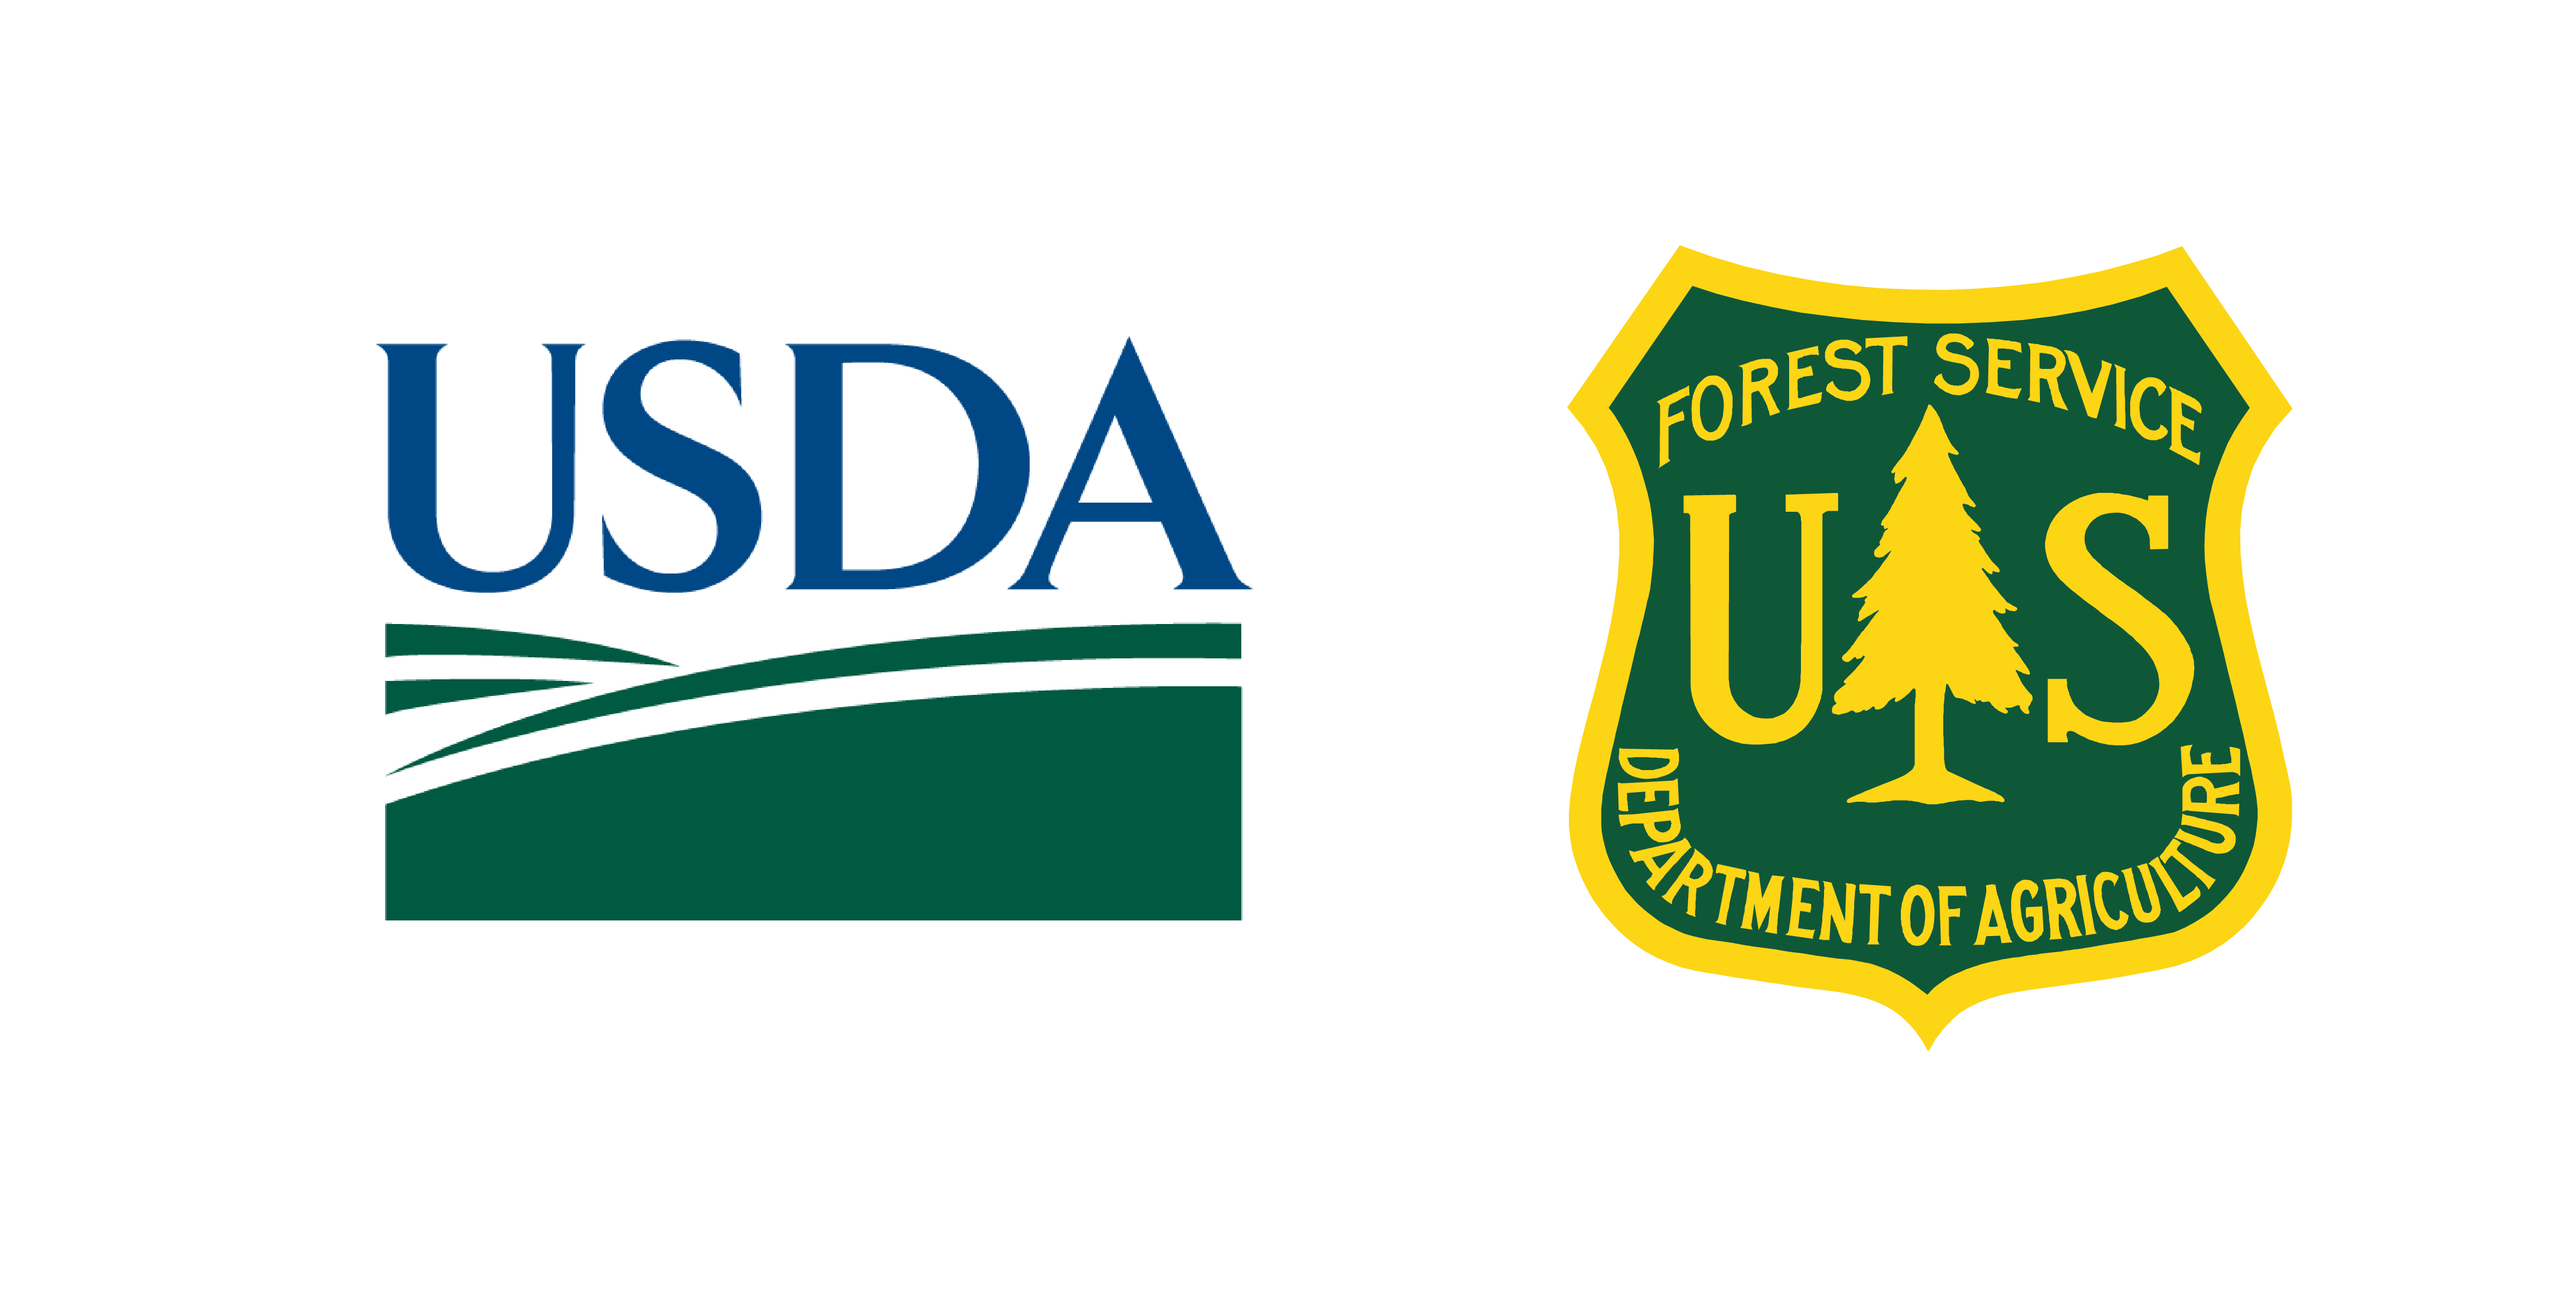
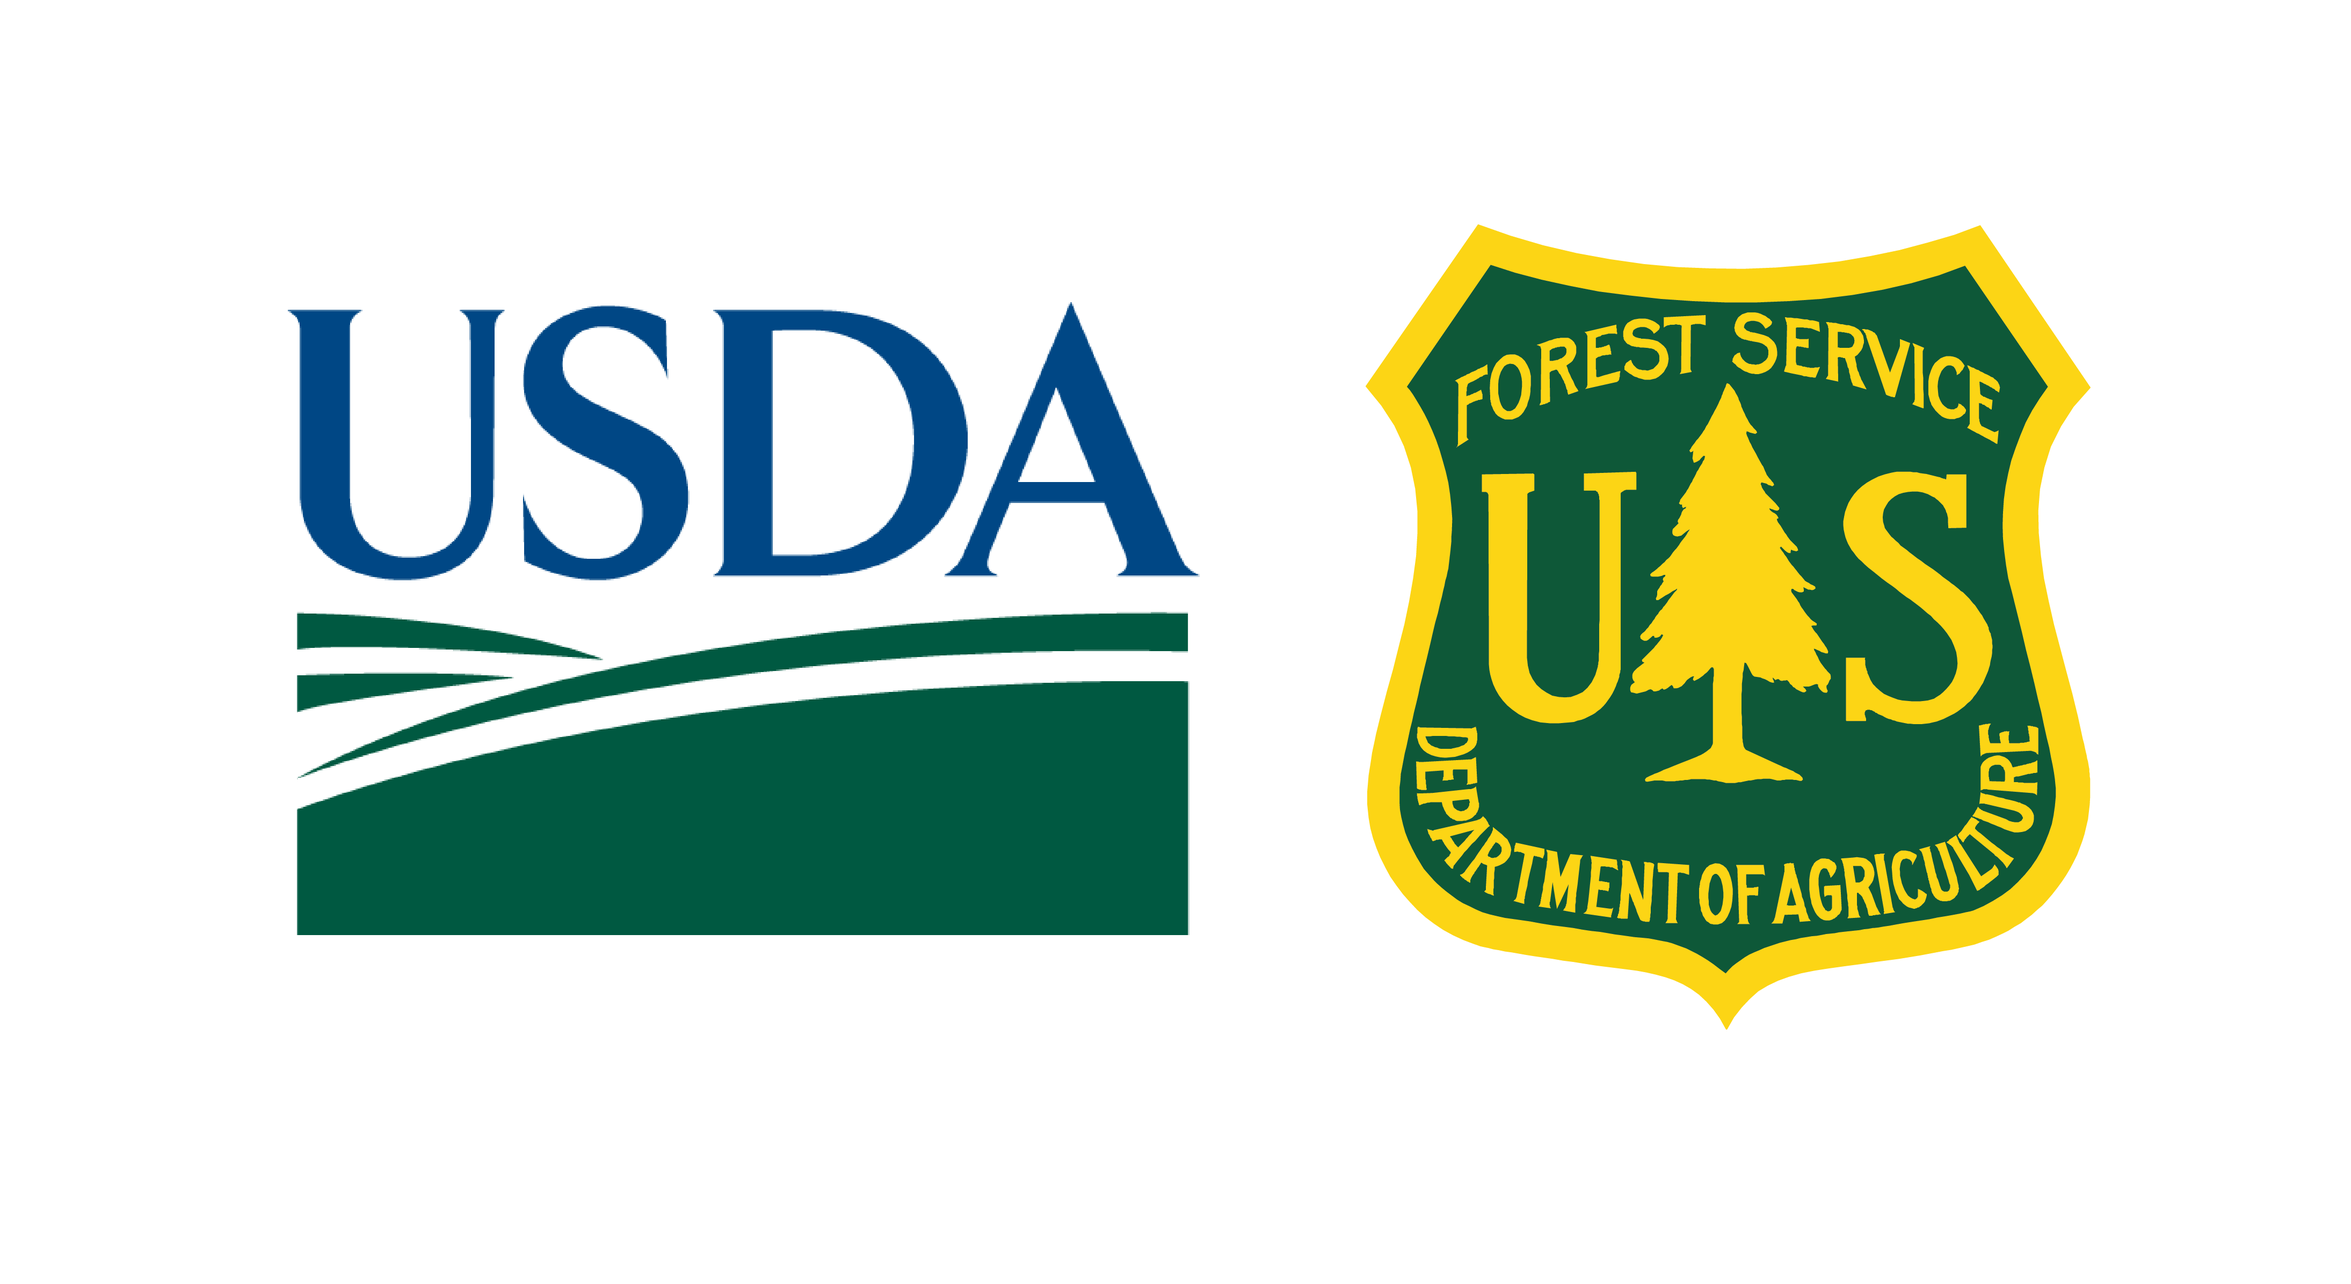
Built site for gh-pages

Changed region(s): [[0.5592, 0.1547, 0.9009, 0.8043], [0.1243, 0.2166, 0.5281, 0.7425]]

diff --git a/simulations-dispersal.html b/simulations-dispersal.html
@@ -410,7 +410,7 @@ window.Quarto = {
 
 <div class="list grid" style="column-gap: 10px;">
 
-  <div class="card border-2 rounded-3 g-col-12 g-col-sm-6 g-col-md-4 mb-2" data-index="0" data-listing-file-modified-sort="1751920422127">
+  <div class="card border-2 rounded-3 g-col-12 g-col-sm-6 g-col-md-4 mb-2" data-index="0" data-listing-file-modified-sort="1751924874634">
     <div class="card-header py-1 px-2 border-bottom border-1 bg-light">
       <small class="card-text inline-block">
         <a href="./outputs/dispersal/2025/SBW_Flight_2025.gif" class="listing-title">SBW_Flight_2025.gif</a>
@@ -432,7 +432,7 @@ window.Quarto = {
 
 <div class="list grid" style="column-gap: 10px;">
 
-  <div class="card border-2 rounded-3 g-col-12 g-col-sm-6 g-col-md-4 mb-2" data-index="0" data-listing-file-modified-sort="1751516878359">
+  <div class="card border-2 rounded-3 g-col-12 g-col-sm-6 g-col-md-4 mb-2" data-index="0" data-listing-file-modified-sort="1751924864261">
     <div class="card-header py-1 px-2 border-bottom border-1 bg-light">
       <small class="card-text inline-block">
         <a href="./outputs/dispersal/2024/SBW_Flight_2024.gif" class="listing-title">SBW_Flight_2024.gif</a>
@@ -454,7 +454,7 @@ window.Quarto = {
 
 <div class="list grid" style="column-gap: 10px;">
 
-  <div class="card border-2 rounded-3 g-col-12 g-col-sm-6 g-col-md-4 mb-2" data-index="0" data-listing-file-modified-sort="1751516853308">
+  <div class="card border-2 rounded-3 g-col-12 g-col-sm-6 g-col-md-4 mb-2" data-index="0" data-listing-file-modified-sort="1751924839222">
     <div class="card-header py-1 px-2 border-bottom border-1 bg-light">
       <small class="card-text inline-block">
         <a href="./outputs/dispersal/2023/SBW_Flight_2023.gif" class="listing-title">SBW_Flight_2023.gif</a>
@@ -476,7 +476,7 @@ window.Quarto = {
 
 <div class="list grid" style="column-gap: 10px;">
 
-  <div class="card border-2 rounded-3 g-col-12 g-col-sm-6 g-col-md-4 mb-2" data-index="0" data-listing-file-modified-sort="1751516828781">
+  <div class="card border-2 rounded-3 g-col-12 g-col-sm-6 g-col-md-4 mb-2" data-index="0" data-listing-file-modified-sort="1751924813882">
     <div class="card-header py-1 px-2 border-bottom border-1 bg-light">
       <small class="card-text inline-block">
         <a href="./outputs/dispersal/2022/SBW_Flight_2022.gif" class="listing-title">SBW_Flight_2022.gif</a>

diff --git a/about.html b/about.html
@@ -289,7 +289,7 @@ cookieconsent.run({
 <p>Beginning in 2004, with the imminent rise of the next spruce budworm outbreak, a new era of collaboration began between the United States Department of Agriculture (USDA) Forest Service and the Canadian Forest Service (CFS), as Brian Sturtevant (USDA Forest Service) and Barry Cooke (CFS) began investigating spruce budworm outbreak dynamics in the “Border Lakes” region of Minnesota and Ontario. The Spruce Budworm ATM is one of many Border Lakes project outputs.</p>
 <p>This research was made possible through partnerships between the <strong>Canadian Forest Service</strong> and the <strong>US Department of Agriculture Forest Service Research &amp; Development</strong>, fostered by the <strong>Canada-US Forest Health Initiative “One Continent; One Forest; One Threat”</strong> and the <strong>Sustainable Forestry Initiative</strong>, and supported financially by the <strong>US Endowment for Forestry and Communities</strong>.</p>
 <div class="logo-container">
-<p><a href="https://natural-resources.canada.ca/corporate/corporate-overview/canadian-forest-service"><img src="images/nrcan-cfs.png" class="img-fluid" width="200"></a> <a href="https://research.fs.usda.gov/"><img src="images/usfs.png" class="img-fluid" width="400"></a></p>
+<p><a href="https://natural-resources.canada.ca/corporate/corporate-overview/canadian-forest-service"><img src="images/nrcan-cfs.png" class="img-fluid" width="200"></a> <a href="https://research.fs.usda.gov/"><img src="images/usfs.png" class="img-fluid" width="300"></a></p>
 <p><a href="https://www.wisc.edu/"><img src="images/uw-mad.png" class="img-fluid" width="200"></a> <a href="https://forests.org/"><img src="images/SFI_00001_new.svg" class="img-fluid" width="200"></a> <a href="https://www.usendowment.org/"><img src="images/use_logo-01.png" class="img-fluid" width="300"></a></p>
 </div>
 </section>

diff --git a/model-description.html b/model-description.html
@@ -295,7 +295,7 @@ cookieconsent.run({
 <h2 class="anchored" data-anchor-id="supporting-partners">Supporting Partners</h2>
 <p>See <a href="./about.html#program-and-partnerships">Program and Partnerships</a>.</p>
 <div class="logo-container">
-<p><a href="https://natural-resources.canada.ca/corporate/corporate-overview/canadian-forest-service"><img src="images/nrcan-cfs.png" class="img-fluid" width="200"></a> <a href="https://research.fs.usda.gov/"><img src="images/usfs.png" class="img-fluid" width="400"></a></p>
+<p><a href="https://natural-resources.canada.ca/corporate/corporate-overview/canadian-forest-service"><img src="images/nrcan-cfs.png" class="img-fluid" width="200"></a> <a href="https://research.fs.usda.gov/"><img src="images/usfs.png" class="img-fluid" width="300"></a></p>
 <p><a href="https://www.wisc.edu/"><img src="images/uw-mad.png" class="img-fluid" width="200"></a> <a href="https://forests.org/"><img src="images/SFI_00001_new.svg" class="img-fluid" width="200"></a> <a href="https://www.usendowment.org/"><img src="images/use_logo-01.png" class="img-fluid" width="300"></a></p>
 </div>
 
